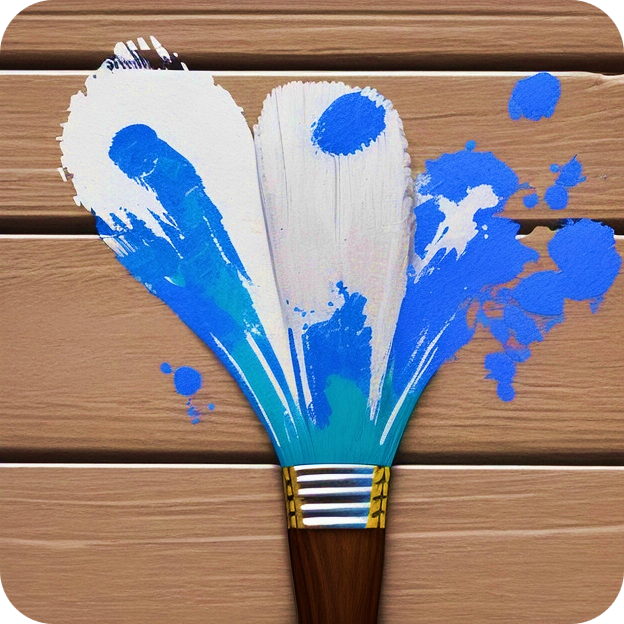
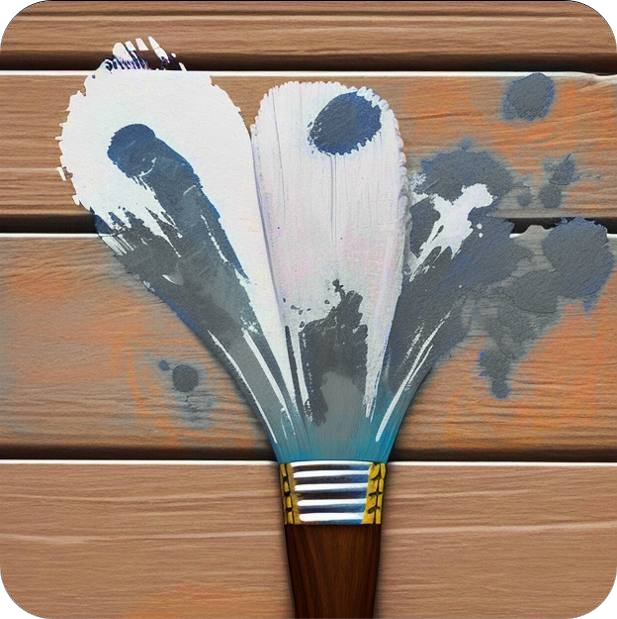
feat: added cards for 3 main type of services, rendered new images, more styling

diff --git a/src/pages/LandingPage/LandingPage.jsx b/src/pages/LandingPage/LandingPage.jsx
@@ -1,13 +1,17 @@
 import NavbarOut from "../../components/Navbar/NavbarOut/NavbarOut"
 import React from 'react';
 import { Carousel } from 'antd';
+import { Card, Col, Row } from 'antd';
 
+const { Meta } = Card;
 const contentStyle = {
   height: '100%',
   color: '#fff',
   lineHeight: '1750%',
   textAlign: 'center',
-  background: '#364d79',
+  background: 'black',
+  // background: '#364d79',
+
 };
 
 export default function LandingPage() {
@@ -34,6 +38,60 @@ export default function LandingPage() {
     </div>
   </Carousel>
       
+      <br></br>
+
+      <Row gutter={16}>
+    <Col span={8}>
+    <Card
+    hoverable
+    style={{ width: 240 }}
+    cover={<img alt="example" src="../../../screenshots/card1.png" />}
+  >
+    <Meta title="Paint-for-hire" description="Fast, reliable, affordable" />
+  </Card>
+    </Col>
+    <Col span={8}>
+    <Card
+    hoverable
+    style={{ width: 240 }}
+    cover={<img alt="example" src="../../../screenshots/card2.png" />}
+  >
+    <Meta title="Painting classes" description="Learn from the best, do it yourself" />
+  </Card>
+    </Col>
+    <Col span={8}>
+    <Card
+    hoverable
+    style={{ width: 240 }}
+    cover={<img alt="example" src="../../../screenshots/card3.png" />}
+  >
+    <Meta title="Table bookings" description="A table & paint supplies at your fingertips" />
+  </Card>
+    </Col>
+  </Row>
+
+  <br></br>
+
+
+  {/* <Row gutter={16}>
+    <Col span={8}>
+      <Card title="Card title" bordered={false}>
+        Card content
+      </Card>
+    </Col>
+    <Col span={8}>
+      <Card title="Card title" bordered={false}>
+        Card content
+      </Card>
+    </Col>
+    <Col span={8}>
+      <Card title="Card title" bordered={false}>
+        Card content
+      </Card>
+    </Col>
+  </Row> */}
+
+
     </>
   )
 }

diff --git a/src/components/Navbar/NavbarOut/NavbarOut.jsx b/src/components/Navbar/NavbarOut/NavbarOut.jsx
@@ -5,22 +5,24 @@ import { Link } from "react-router-dom";
 const { Header } = Layout;
 
 export default function NavbarOut() {
+
+
   return (
-    <Header className="navbar">
+    <Header className="navbar" style={{ backgroundColor: "white" }}>
       
       <Link to="/">
         <div className="brand">
           <img src="../../../screenshots/leonAIbrushedited.png" alt="Logo" style={{ width: 50, height: 50 }} />
-          <span className="app-name">Condotierre</span>
+          <span className="app-name" >Condotierre</span>
         </div>
       </Link>
 
       <div className="auth-buttons">
         <Link to="/login">
-          <Button type="primary">Log In</Button>
+          <Button style={{ backgroundColor: "#01628f" }} type="primary">Log In</Button>
         </Link>
         <Link to="/signup">
-          <Button type="default">Sign Up</Button>
+          <Button type="default" >Sign Up</Button>
         </Link>
       </div>
     </Header>

diff --git a/src/components/Auth_SignupForm/SignupForm.jsx b/src/components/Auth_SignupForm/SignupForm.jsx
@@ -46,7 +46,7 @@ export default function SignupForm({ setUser }) {
 
   return (
     <>
-      <h3> Sign Up - Join GA-SEI48's fastest-growing personal finance app!</h3>
+      <h3> Sign Up - Bring your tabletop adventures to life today!</h3>
       <Form
         name="basic"
         labelCol={{
@@ -182,7 +182,7 @@ export default function SignupForm({ setUser }) {
             span: 16,
           }}
         >
-          <Button type="primary" htmlType="submit">
+          <Button style={{ backgroundColor: "#01628f" }} type="primary" htmlType="submit">
             {/* <Button type="primary" htmlType="submit" disabled={disable} > */}
             {/* <Button type="primary" htmlType="submit" disabled={disable} onChange={handleChange}> */}
             Submit

diff --git a/src/main.jsx b/src/main.jsx
@@ -11,10 +11,14 @@ ReactDOM.createRoot(document.getElementById("root")).render(
     </BrowserRouter>
     <Footer
         style={{
-          textAlign: "center",
-        }}
+        textAlign: "center",
+        // backgroundColor: "white"
+        backgroundColor: "#03594c",
+        color: "white"
+      }}
+      
       >
-        © {new Date().getFullYear()} By <a href="https://github.com/justintea/Condottiere" target="_blank" rel="noopener noreferrer">Justin Teh</a>
+        © {new Date().getFullYear()} by <a href="https://github.com/justintea/Condottiere" target="_blank" rel="noopener noreferrer" style={{ color: "white" }}>Justin Teh</a>
       </Footer>
   </React.StrictMode>
 );

diff --git a/src/components/Auth_LoginForm/LoginForm.jsx b/src/components/Auth_LoginForm/LoginForm.jsx
@@ -80,7 +80,7 @@ export default function LoginForm({ setUser }) {
             span: 16,
           }}
         >
-          <Checkbox>Remember me</Checkbox>
+          <Checkbox >Remember me</Checkbox>
         </Form.Item>
 
         <Form.Item
@@ -89,7 +89,7 @@ export default function LoginForm({ setUser }) {
             span: 16,
           }}
         >
-          <Button type="primary" htmlType="submit">
+          <Button style={{ backgroundColor: "#01628f" }} type="primary" htmlType="submit">
             Login
           </Button>
 

diff --git a/src/components/Navbar/Navbar.css b/src/components/Navbar/Navbar.css
@@ -21,10 +21,12 @@
   display: flex;
   align-items: center;
   gap: 10px;
+  font-family: 'Palatino Linotype', 'Times New Roman';
 }
 
 .brand:hover {
-  color:#1677ff;
+  /* color:#1677ff; */
+  color: #478e80;
 }
 
 .menu {
@@ -53,4 +55,10 @@
   display: flex;
   align-items: center;
   gap: 10px;
+  /* color: #043a5b ; */
+}
+
+.auth-buttons:hover {
+  /* color:#1677ff; */
+  color: #478e80;
 }
